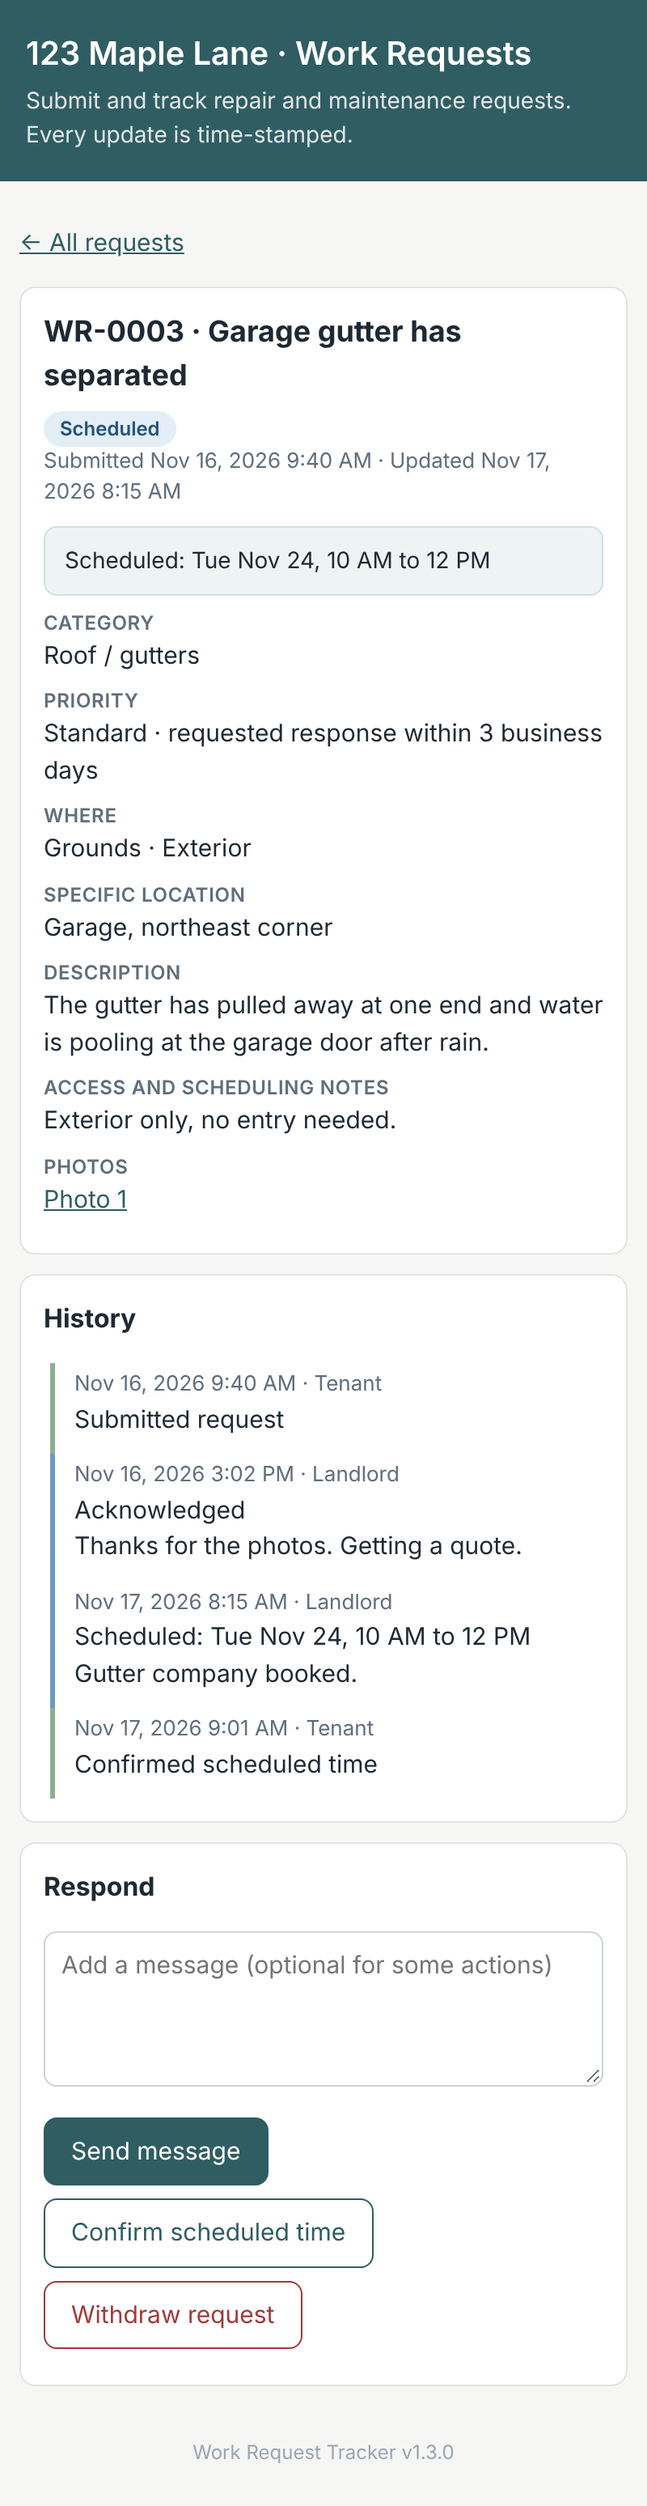
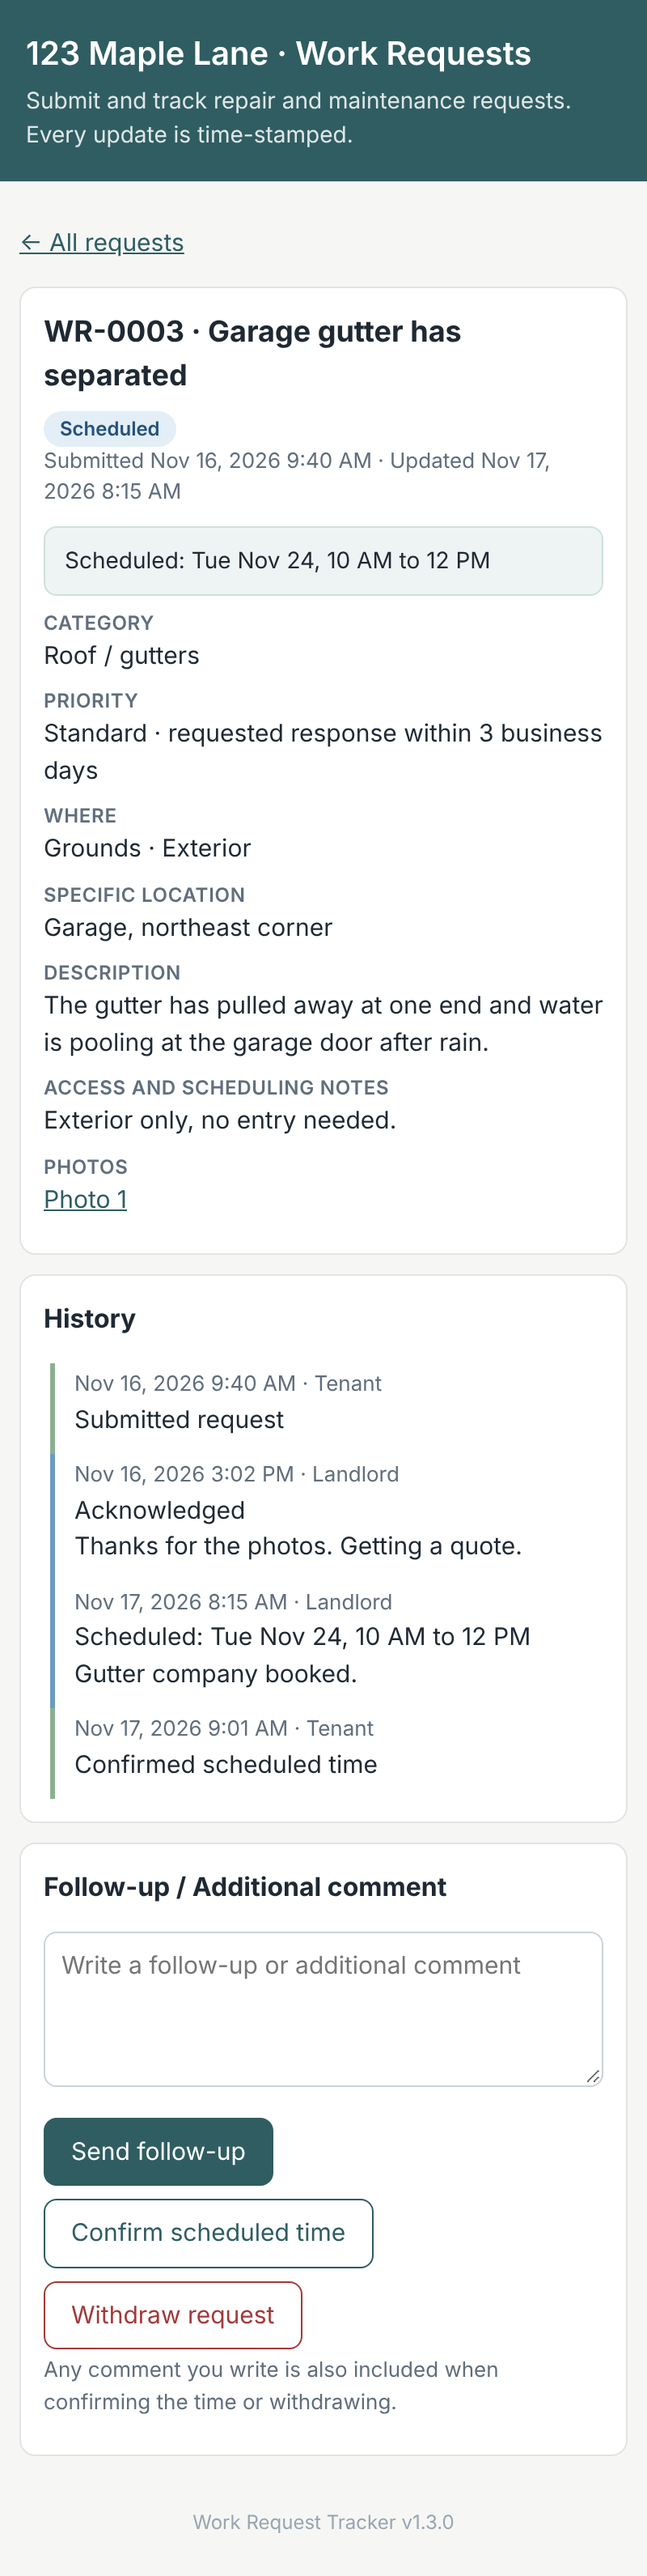
v1.3.1: clearer tenant follow-up section
Claude-Session: https://claude.ai/code/session_017VoKnycgN8XbwmDMcNHVKc

diff --git a/Tenant.html b/Tenant.html
@@ -1,5 +1,5 @@
 <!DOCTYPE html>
-<!-- Work Request Tracker v1.3.0 -->
+<!-- Work Request Tracker v1.3.1 -->
 <html>
 <head>
   <base target="_top">
@@ -226,20 +226,33 @@
       call('tenantDetail', [KEY, id]).then(renderDetail).catch(function (e) { d.textContent = e; });
     }
 
+    // Explains how the comment box applies to the other buttons currently shown.
+    function helpLine(r) {
+      var parts = [];
+      if (r.status === 'Scheduled') parts.push('confirming the time');
+      if (r.open) parts.push('withdrawing');
+      var text = parts.length ? 'Any comment you write is also included when ' + parts.join(' or ') + '.' : '';
+      if (r.status === 'Completed') text = 'To reopen, describe what still needs attention.';
+      return text ? el('div', { class: 'help', text: text }) : null;
+    }
+
     function renderDetail(r) {
       var d = document.getElementById('detail');
       clear(d);
-      var noteBox = el('textarea', { id: 'note', placeholder: 'Add a message (optional for some actions)' });
+      var noteBox = el('textarea', { id: 'note', placeholder: 'Write a follow-up or additional comment' });
       var errBox = el('div', { class: 'error' });
       function act(action, needsNote) {
         return function (ev) {
-          if (needsNote && !noteBox.value.trim()) { errBox.textContent = 'Please add a message first.'; return; }
+          if (needsNote && !noteBox.value.trim()) {
+            errBox.textContent = action === 'reopen' ? 'Please describe what still needs attention.' : 'Please write your comment first.';
+            return;
+          }
           busy(ev.target, true);
           call('tenantAction', [KEY, r.id, action, noteBox.value]).then(renderDetail)
             .catch(function (e) { errBox.textContent = e; busy(ev.target, false); });
         };
       }
-      var actions = [el('button', { onclick: act('comment', true), text: 'Send message' })];
+      var actions = [el('button', { onclick: act('comment', true), text: 'Send follow-up' })];
       if (r.status === 'Scheduled') actions.push(el('button', { class: 'secondary', onclick: act('confirm'), text: 'Confirm scheduled time' }));
       if (r.status === 'Completed') actions.push(el('button', { class: 'secondary', onclick: act('reopen', true), text: 'Reopen (not resolved)' }));
       if (r.open) actions.push(el('button', { class: 'danger', onclick: act('withdraw'), text: 'Withdraw request' }));
@@ -258,8 +271,8 @@
       ]));
       d.appendChild(el('div', { class: 'card' }, [el('h3', { style: 'margin-top:0;font-size:16px', text: 'History' }), timeline(r.log)]));
       d.appendChild(el('div', { class: 'card' }, [
-        el('h3', { style: 'margin-top:0;font-size:16px', text: 'Respond' }),
-        noteBox, el('div', { class: 'actions' }, actions), errBox
+        el('h3', { style: 'margin-top:0;font-size:16px', text: 'Follow-up / Additional comment' }),
+        noteBox, el('div', { class: 'actions' }, actions), helpLine(r), errBox
       ]));
     }
 

diff --git a/Shared.html b/Shared.html
@@ -1,4 +1,4 @@
-<!-- Work Request Tracker v1.3.0 -->
+<!-- Work Request Tracker v1.3.1 -->
 <script>
   // Shared client helpers (no data is rendered as HTML; everything uses textContent).
   function el(tag, attrs, children) {

diff --git a/Styles.html b/Styles.html
@@ -1,4 +1,4 @@
-<!-- Work Request Tracker v1.3.0 -->
+<!-- Work Request Tracker v1.3.1 -->
 <style>
   :root {
     --bg: #f6f7f5; --card: #ffffff; --ink: #1f2933; --muted: #616e7c; --line: #e1e5e2;

diff --git a/Landlord.html b/Landlord.html
@@ -1,5 +1,5 @@
 <!DOCTYPE html>
-<!-- Work Request Tracker v1.3.0 -->
+<!-- Work Request Tracker v1.3.1 -->
 <html>
 <head>
   <base target="_top">

diff --git a/docs/SETUP.md b/docs/SETUP.md
@@ -1,6 +1,6 @@
 # Setup and Testing Guide
 
-*For Work Request Tracker v1.3.0. Every file carries its version in its first lines, and every page, dialog and email shows it, so you can confirm the live version matches the files you pasted.*
+*For Work Request Tracker v1.3.1. Every file carries its version in its first lines, and every page, dialog and email shows it, so you can confirm the live version matches the files you pasted.*
 
 This guide takes you from nothing to a working, tested tracker. Each step lists **what to do**, **what you should see**, and **what to check** before moving on. Plan on 20 to 30 minutes, including testing.
 
@@ -101,7 +101,7 @@ This guide takes you from nothing to a working, tested tracker. Each step lists 
 3. In the **Execution log**, copy the line that starts "Your tenant link."
 4. Open it in your browser and **bookmark it.**
 
-**You should see:** a page headed "*Your property* · Work Requests," with the version (for example `Work Request Tracker v1.3.0`) at the bottom, with **Open** and **Closed** tabs, a **+ New request** button, and "No open requests."
+**You should see:** a page headed "*Your property* · Work Requests," with the version (for example `Work Request Tracker v1.3.1`) at the bottom, with **Open** and **Closed** tabs, a **+ New request** button, and "No open requests."
 
 **Check:** the tenant link works like a password. Don't share it. If you open the bare URL without `?k=...`, you should see "This link is not valid," which confirms the protection is working.
 

diff --git a/CHANGELOG.md b/CHANGELOG.md
@@ -2,6 +2,12 @@
 
 Each file carries its version inline (a comment at the top, and `APP_VERSION` in `Code.gs`). The version also shows at the bottom of every page, in the menu dialogs and in every email, so you can confirm which version is live. `appsscript.json` can't hold comments; it changes rarely and is noted below when it does.
 
+## 1.3.1 (2026-11-16)
+
+- Tenant request page: "Respond" renamed to **Follow-up / Additional comment**; the button now reads **Send follow-up**
+- Clearer comment box: the placeholder no longer says "optional for some actions"; a short note under the buttons explains when a comment is included (confirming, withdrawing) or required (reopening)
+- Changed file: `Tenant.html` (all files carry the new version number)
+
 ## 1.3.0 (2026-11-16)
 
 - Photo previews on the new request form: thumbnails appear as photos are chosen, each with a remove button

diff --git a/docs/UX-NOTES.md b/docs/UX-NOTES.md
@@ -12,3 +12,4 @@ Observations from setting the tracker up as a first-time Apps Script user, and h
 | 6 | Requests need to say which building. | Addressed: required **Main house / Cottage / Grounds** choice, configurable on the Config tab (BUILDINGS) |
 | 7 | Running setup left the editor's execution log spinning indefinitely. The script was waiting for an OK click on a pop-up in the Sheet's tab. | Fixed in v1.2.1: messages use a non-blocking pop-up, so actions finish immediately |
 | 8 | No preview of photos after choosing them. | Added in v1.3.0: thumbnails with a remove button for each photo |
+| 9 | "Respond" was the wrong label for the tenant's comment area, and "optional for some actions" was confusing. | Fixed in v1.3.1: renamed to Follow-up / Additional comment, with a plain note on when a comment is included or required |
